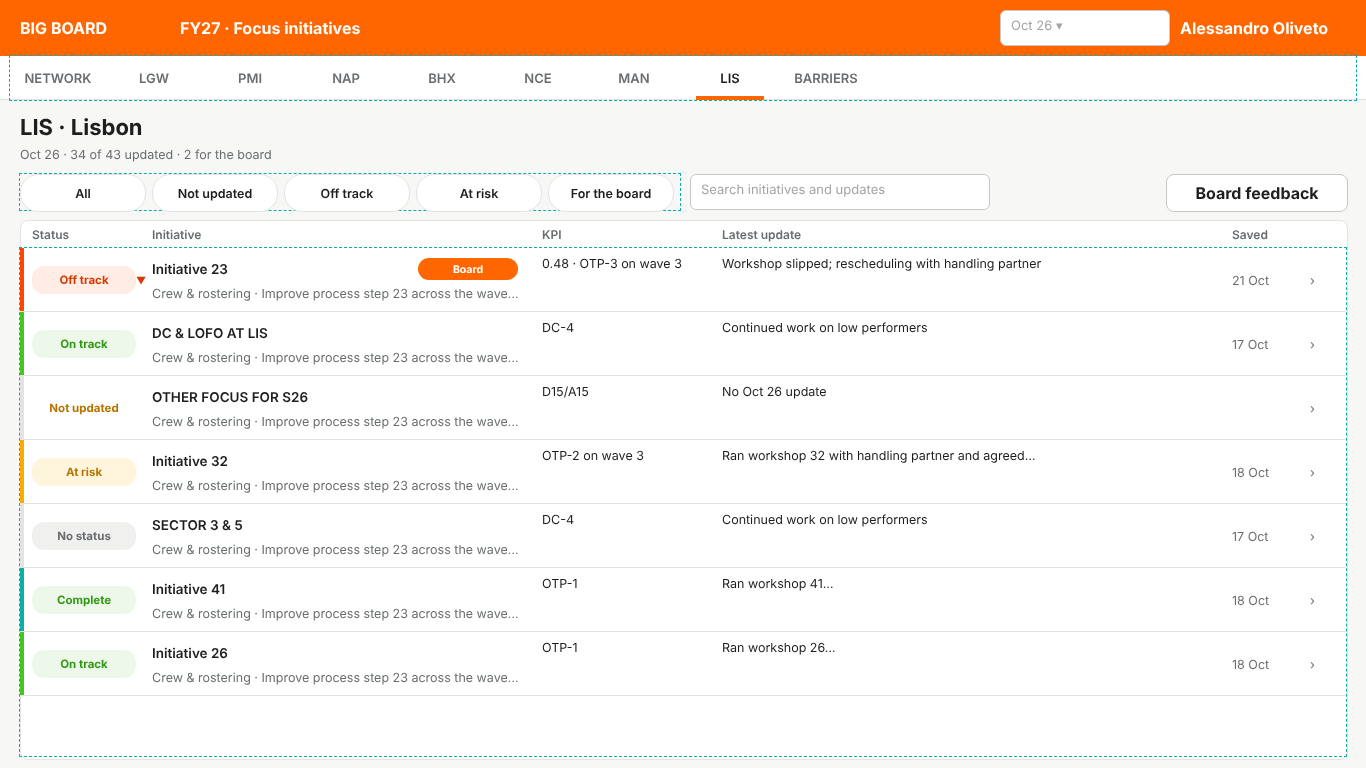
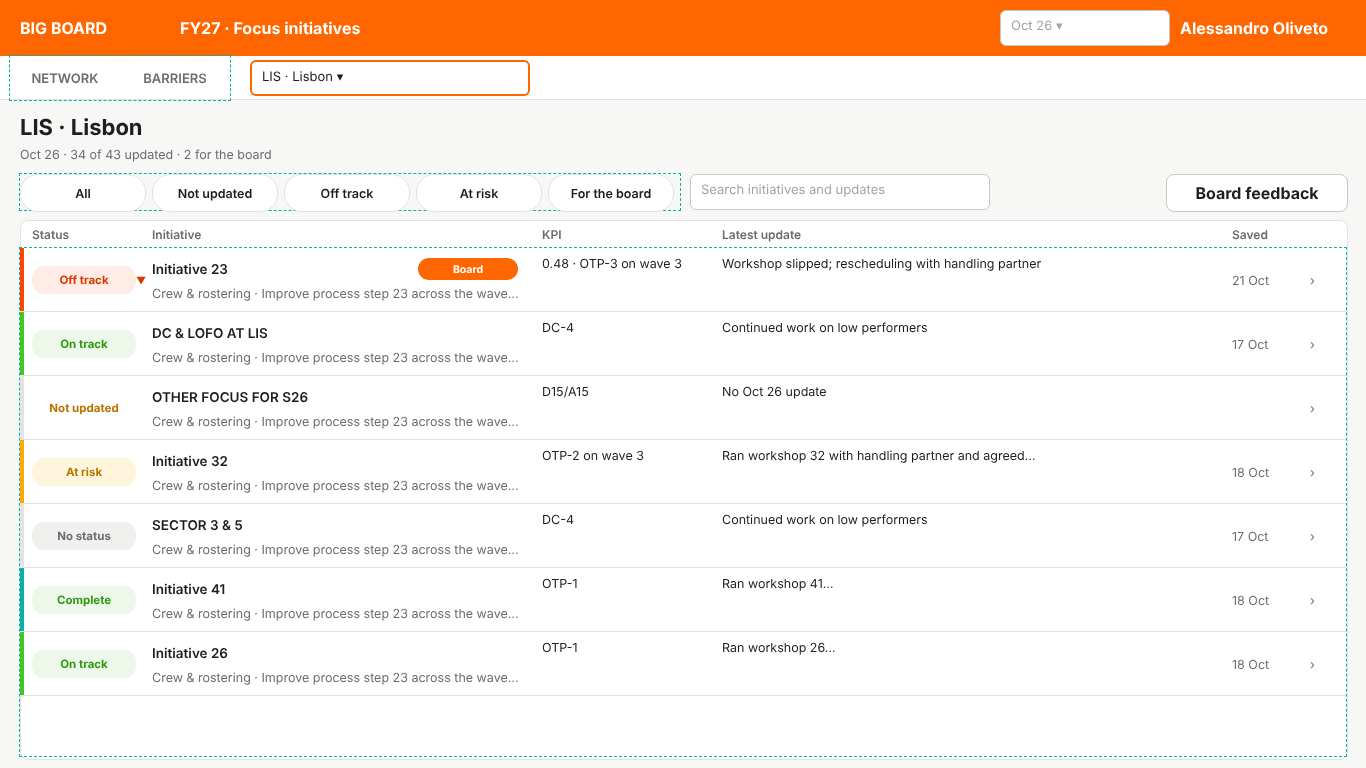
Power Apps build: base picker instead of a tab per base
With many bases a tab each won't fit. The tab bar keeps Network and
Barriers, and a searchable combo box jumps to any base. Bases are now
derived from the Initiatives list (plus an optional BaseName column),
so adding a base needs no app change. Wireframes regenerated.

Claude-Session: https://claude.ai/code/session_01FSDzs4oTqSNZtfHC1o1esS

diff --git a/powerapps/BUILD.md b/powerapps/BUILD.md
@@ -75,7 +75,8 @@ Anything else in that column is an example of what goes in it. **You don't enter
 |---|---|---|
 | Title | (already there) | Focus area, e.g. FIRST WAVE |
 | Key | Single line of text | Required + enforce unique values. **You type this** when adding an initiative: base code in lower case, dash, two digits, e.g. `lgw-03`. Never reuse one |
-| Base | Single line of text | Indexed. LGW, PMI, … |
+| Base | Single line of text | Indexed. LGW, PMI, … The app's list of bases comes from this column |
+| BaseName | Single line of text | Optional. e.g. London Gatwick. Fill it on at least one row per base |
 | Group | Single line of text | e.g. Focus based on Deep Dive |
 | Detail | Multiple lines, plain text | |
 | KPI | Multiple lines, plain text | |
@@ -187,16 +188,6 @@ cFaint  = ColorValue("#A4A4A2");
 cBg     = ColorValue("#F7F7F6");
 cLine   = ColorValue("#E3E3E1");
 
-tBases = Table(
-    {Code: "LGW", Name: "London Gatwick"},
-    {Code: "PMI", Name: "Palma de Mallorca"},
-    {Code: "NAP", Name: "Naples"},
-    {Code: "BHX", Name: "Birmingham"},
-    {Code: "NCE", Name: "Nice"},
-    {Code: "MAN", Name: "Manchester"},
-    {Code: "LIS", Name: "Lisbon"}
-);
-
 // Sep 26 (FY26 close-out) to Sep 27. Change the start date and count for FY28.
 tMonths = ForAll(Sequence(13),
     With({d: DateAdd(Date(2026, 9, 1), Value - 1, TimeUnit.Months)},
@@ -225,6 +216,12 @@ Set(varMonth, If(IsBlank(LookUp(tMonths, Key = Text(Today(), "yyyy-mm"))), "2026
 Set(varView, "NETWORK");
 Set(varFilter, "All");
 ClearCollect(colInits, Filter(Initiatives, Active = true));
+// Every base with at least one active initiative, A to Z. Name comes from BaseName, else the code.
+ClearCollect(colBases, SortByColumns(
+    AddColumns(Distinct(colInits, Base) As b,
+        Code, b.Value,
+        Name, Coalesce(LookUp(colInits, Base = b.Value && !IsBlank(BaseName)).BaseName, b.Value)),
+    Code));
 Set(varPrev, Text(DateAdd(Date(Value(Left(varMonth, 4)), Value(Right(varMonth, 2)), 1), -1, TimeUnit.Months), "yyyy-mm"));
 Concurrent(
     ClearCollect(colUpd,  Filter(Updates, Month = varMonth)),
@@ -257,9 +254,10 @@ Set(varView, "NETWORK")
 | `lblUser` | Label | 1180 | 0 | 166 | 56 | |
 | `recNav` | Rectangle | 0 | 56 | 1366 | 44 | |
 | `recNavLine` | Rectangle | 0 | 99 | 1366 | 1 | |
-| `galNav` | Gallery (horizontal, blank) | 10 | 56 | 1346 | 44 | |
-| `btnTab` | Button | 0 | 0 | 96 | 44 | `galNav` |
-| `recTabOn` | Rectangle | 14 | 40 | 68 | 4 | `galNav` |
+| `galNav` | Gallery (horizontal, blank) | 10 | 56 | 220 | 44 | |
+| `btnTab` | Button | 0 | 0 | 110 | 44 | `galNav` |
+| `recTabOn` | Rectangle | 14 | 40 | 82 | 4 | `galNav` |
+| `cmbBase` | Combo box | 250 | 60 | 280 | 36 | |
 | `lblNetTitle` | Label | 20 | 110 | 700 | 34 | |
 | `lblNetSub` | Label | 20 | 142 | 900 | 24 | |
 | `galKpi` | Gallery (horizontal, blank) | 20 | 174 | 1326 | 84 | |
@@ -371,16 +369,8 @@ Fill: cLine
 **`galNav`**
 
 ```
-Items:
-    Ungroup(
-        Table(
-            {t: ["NETWORK"]},
-            {t: RenameColumns(ShowColumns(tBases, Code), Code, Value)},
-            {t: ["BARRIERS"]}
-        ),
-        t
-    )
-TemplateSize: 96
+Items: ["NETWORK", "BARRIERS"]
+TemplateSize: 110
 TemplatePadding: 0
 ShowScrollbar: false
 ```
@@ -400,8 +390,7 @@ Size: 11
 FontWeight: FontWeight.Semibold
 OnSelect:
     Set(varView, ThisItem.Value);
-    Set(varFilter, "All");
-    Navigate(Switch(ThisItem.Value, "NETWORK", scrNetwork, "BARRIERS", scrBarriers, scrBase), ScreenTransition.None)
+    Navigate(If(ThisItem.Value = "NETWORK", scrNetwork, scrBarriers), ScreenTransition.None)
 ```
 
 **`recTabOn`** (in `galNav`)
@@ -409,6 +398,24 @@ OnSelect:
 ```
 Fill: cOrange
 Visible: varView = ThisItem.Value
+```
+
+**`cmbBase`**
+
+```
+Items: colBases
+DisplayFields: ["Code", "Name"]
+SearchFields: ["Code", "Name"]
+IsSearchable: true
+SelectMultiple: false
+InputTextPlaceholder: "Go to a base…"
+DefaultSelectedItems: Filter(colBases, Code = varView)
+OnChange:
+    If(!IsBlank(Self.Selected),
+        Set(varView, Self.Selected.Code);
+        Set(varFilter, "All");
+        Navigate(scrBase, ScreenTransition.None))
+BorderColor: If(LookUp(colBases, Code = varView, true), cOrange, cLine)
 ```
 
 **`lblNetTitle`**
@@ -423,7 +430,7 @@ Color: cInk
 **`lblNetSub`**
 
 ```
-Text: CountRows(tBases) & " bases · " & CountRows(colInits) & " initiatives · compared with " & MonthLabel(varPrev)
+Text: CountRows(colBases) & " bases · " & CountRows(colInits) & " initiatives · compared with " & MonthLabel(varPrev)
 Size: 10.5
 Color: cMuted
 ```
@@ -587,7 +594,7 @@ Align: Align.Center
 **`galBases`**
 
 ```
-Items: tBases
+Items: colBases
 TemplateSize: 42
 TemplatePadding: 0
 OnSelect:
@@ -839,7 +846,7 @@ OnSelect:
 
 ![scrBase](scrBase.png)
 
-The header and tab bar (everything named `…_1` / `…_2`) are a copy of the ones on scrNetwork. Select those eight controls on scrNetwork, copy, and paste them here. Power Apps adds the suffix and keeps positions.
+The header and tab bar (everything named `…_1` / `…_2`) are a copy of the ones on scrNetwork. Select those nine controls on scrNetwork, copy, and paste them here. Power Apps adds the suffix and keeps positions.
 
 | Control | Type | X | Y | W | H | Inside |
 |---|---|---|---|---|---|---|
@@ -850,9 +857,10 @@ The header and tab bar (everything named `…_1` / `…_2`) are a copy of the on
 | `lblUser_1` | Label | 1180 | 0 | 166 | 56 | |
 | `recNav_1` | Rectangle | 0 | 56 | 1366 | 44 | |
 | `recNavLine_1` | Rectangle | 0 | 99 | 1366 | 1 | |
-| `galNav_1` | Gallery (horizontal, blank) | 10 | 56 | 1346 | 44 | |
-| `btnTab_1` | Button | 0 | 0 | 96 | 44 | `galNav_1` |
-| `recTabOn_1` | Rectangle | 14 | 40 | 68 | 4 | `galNav_1` |
+| `galNav_1` | Gallery (horizontal, blank) | 10 | 56 | 220 | 44 | |
+| `btnTab_1` | Button | 0 | 0 | 110 | 44 | `galNav_1` |
+| `recTabOn_1` | Rectangle | 14 | 40 | 82 | 4 | `galNav_1` |
+| `cmbBase_1` | Combo box | 250 | 60 | 280 | 36 | |
 | `lblBaseTitle` | Label | 20 | 110 | 700 | 34 | |
 | `lblBaseSub` | Label | 20 | 142 | 900 | 24 | |
 | `galFilters` | Gallery (horizontal, blank) | 20 | 174 | 660 | 36 | |
@@ -944,16 +952,8 @@ Fill: cLine
 **`galNav_1`**
 
 ```
-Items:
-    Ungroup(
-        Table(
-            {t: ["NETWORK"]},
-            {t: RenameColumns(ShowColumns(tBases, Code), Code, Value)},
-            {t: ["BARRIERS"]}
-        ),
-        t
-    )
-TemplateSize: 96
+Items: ["NETWORK", "BARRIERS"]
+TemplateSize: 110
 TemplatePadding: 0
 ShowScrollbar: false
 ```
@@ -973,8 +973,7 @@ Size: 11
 FontWeight: FontWeight.Semibold
 OnSelect:
     Set(varView, ThisItem.Value);
-    Set(varFilter, "All");
-    Navigate(Switch(ThisItem.Value, "NETWORK", scrNetwork, "BARRIERS", scrBarriers, scrBase), ScreenTransition.None)
+    Navigate(If(ThisItem.Value = "NETWORK", scrNetwork, scrBarriers), ScreenTransition.None)
 ```
 
 **`recTabOn_1`** (in `galNav_1`)
@@ -984,10 +983,28 @@ Fill: cOrange
 Visible: varView = ThisItem.Value
 ```
 
+**`cmbBase_1`**
+
+```
+Items: colBases
+DisplayFields: ["Code", "Name"]
+SearchFields: ["Code", "Name"]
+IsSearchable: true
+SelectMultiple: false
+InputTextPlaceholder: "Go to a base…"
+DefaultSelectedItems: Filter(colBases, Code = varView)
+OnChange:
+    If(!IsBlank(Self.Selected),
+        Set(varView, Self.Selected.Code);
+        Set(varFilter, "All");
+        Navigate(scrBase, ScreenTransition.None))
+BorderColor: If(LookUp(colBases, Code = varView, true), cOrange, cLine)
+```
+
 **`lblBaseTitle`**
 
 ```
-Text: varView & " · " & LookUp(tBases, Code = varView).Name
+Text: varView & " · " & LookUp(colBases, Code = varView).Name
 Size: 18
 FontWeight: FontWeight.Bold
 ```
@@ -1502,7 +1519,7 @@ OnSelect:
 Set(varView, "BARRIERS")
 ```
 
-The header and tab bar (everything named `…_1` / `…_2`) are a copy of the ones on scrNetwork. Select those eight controls on scrNetwork, copy, and paste them here. Power Apps adds the suffix and keeps positions.
+The header and tab bar (everything named `…_1` / `…_2`) are a copy of the ones on scrNetwork. Select those nine controls on scrNetwork, copy, and paste them here. Power Apps adds the suffix and keeps positions.
 
 | Control | Type | X | Y | W | H | Inside |
 |---|---|---|---|---|---|---|
@@ -1513,9 +1530,10 @@ The header and tab bar (everything named `…_1` / `…_2`) are a copy of the on
 | `lblUser_2` | Label | 1180 | 0 | 166 | 56 | |
 | `recNav_2` | Rectangle | 0 | 56 | 1366 | 44 | |
 | `recNavLine_2` | Rectangle | 0 | 99 | 1366 | 1 | |
-| `galNav_2` | Gallery (horizontal, blank) | 10 | 56 | 1346 | 44 | |
-| `btnTab_2` | Button | 0 | 0 | 96 | 44 | `galNav_2` |
-| `recTabOn_2` | Rectangle | 14 | 40 | 68 | 4 | `galNav_2` |
+| `galNav_2` | Gallery (horizontal, blank) | 10 | 56 | 220 | 44 | |
+| `btnTab_2` | Button | 0 | 0 | 110 | 44 | `galNav_2` |
+| `recTabOn_2` | Rectangle | 14 | 40 | 82 | 4 | `galNav_2` |
+| `cmbBase_2` | Combo box | 250 | 60 | 280 | 36 | |
 | `lblBarTitle` | Label | 20 | 110 | 800 | 34 | |
 | `lblBarSub` | Label | 20 | 142 | 900 | 24 | |
 | `ddBarBase` | Drop down | 20 | 174 | 160 | 36 | |
@@ -1604,16 +1622,8 @@ Fill: cLine
 **`galNav_2`**
 
 ```
-Items:
-    Ungroup(
-        Table(
-            {t: ["NETWORK"]},
-            {t: RenameColumns(ShowColumns(tBases, Code), Code, Value)},
-            {t: ["BARRIERS"]}
-        ),
-        t
-    )
-TemplateSize: 96
+Items: ["NETWORK", "BARRIERS"]
+TemplateSize: 110
 TemplatePadding: 0
 ShowScrollbar: false
 ```
@@ -1633,8 +1643,7 @@ Size: 11
 FontWeight: FontWeight.Semibold
 OnSelect:
     Set(varView, ThisItem.Value);
-    Set(varFilter, "All");
-    Navigate(Switch(ThisItem.Value, "NETWORK", scrNetwork, "BARRIERS", scrBarriers, scrBase), ScreenTransition.None)
+    Navigate(If(ThisItem.Value = "NETWORK", scrNetwork, scrBarriers), ScreenTransition.None)
 ```
 
 **`recTabOn_2`** (in `galNav_2`)
@@ -1642,6 +1651,24 @@ OnSelect:
 ```
 Fill: cOrange
 Visible: varView = ThisItem.Value
+```
+
+**`cmbBase_2`**
+
+```
+Items: colBases
+DisplayFields: ["Code", "Name"]
+SearchFields: ["Code", "Name"]
+IsSearchable: true
+SelectMultiple: false
+InputTextPlaceholder: "Go to a base…"
+DefaultSelectedItems: Filter(colBases, Code = varView)
+OnChange:
+    If(!IsBlank(Self.Selected),
+        Set(varView, Self.Selected.Code);
+        Set(varFilter, "All");
+        Navigate(scrBase, ScreenTransition.None))
+BorderColor: If(LookUp(colBases, Code = varView, true), cOrange, cLine)
 ```
 
 **`lblBarTitle`**
@@ -1663,7 +1690,7 @@ Color: cMuted
 **`ddBarBase`**
 
 ```
-Items: Ungroup(Table({t: ["All"]}, {t: RenameColumns(ShowColumns(tBases, Code), Code, Value)}), t)
+Items: Ungroup(Table({t: ["All"]}, {t: RenameColumns(ShowColumns(colBases, Code), Code, Value)}), t)
 Default: "All"
 ```
 
@@ -1869,7 +1896,7 @@ FontWeight: FontWeight.Bold
 **`lblFbTitle`**
 
 ```
-Text: varView & " · " & LookUp(tBases, Code = varView).Name & " · " & MonthLabel(varMonth)
+Text: varView & " · " & LookUp(colBases, Code = varView).Name & " · " & MonthLabel(varMonth)
 Size: 18
 FontWeight: FontWeight.Bold
 ```
@@ -1965,5 +1992,6 @@ OnSelect:
 - **Check delegation:** if Power Apps shows a blue underline (delegation warning) on any `Filter(Updates, …)`, check that the column in the filter is indexed in SharePoint.
 - **Large lists:** the formulas only send `=` filters on Month, ForBoard and Title to SharePoint. Everything else (search, the filter buttons) runs on the month already loaded, so it stays fast however many months pile up.
 - **Editing initiatives:** add, rename or retire them straight in the Initiatives list (grid view). Set Active to No to retire one. Its past updates stay.
-- **A new base:** add a line to `tBases` in App.Formulas, then add its initiatives to the list.
+- **A new base:** add its initiatives to the Initiatives list, with BaseName filled on at least one. It appears in the base picker, the Network table and the Barriers filter the next time the app opens. No app change needed.
+- **Retiring a base:** set Active to No on its initiatives and it drops out of the picker and tables. Its history stays in the lists.
 - **FY28:** change `Date(2026, 9, 1)` in `tMonths`.
